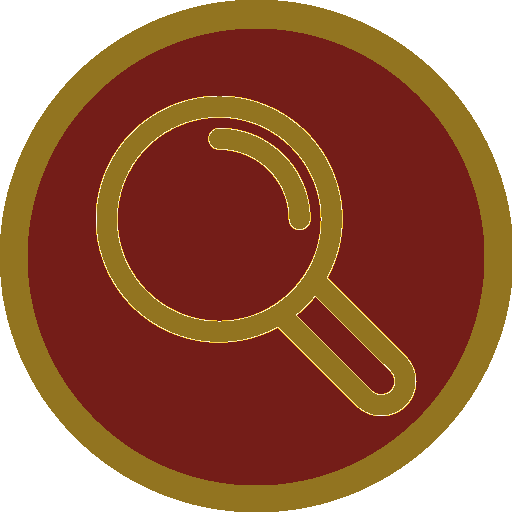
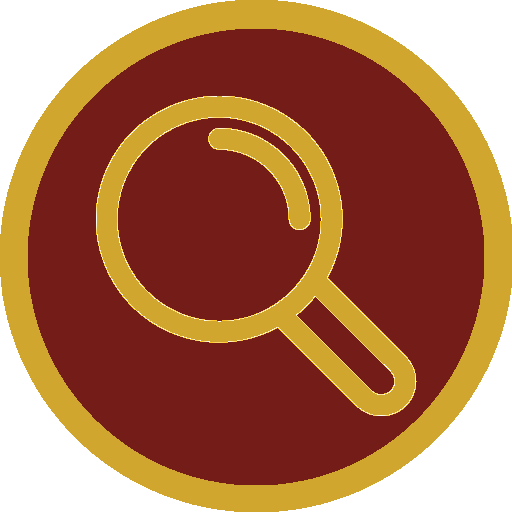
header.php fait

Changed region(s): [[0.0, 0.0, 1.0, 1.0]]

diff --git a/src/ressources/style/style.css b/src/ressources/style/style.css
@@ -70,7 +70,7 @@
 
 .search-button:hover {
     transform: scale(1.05);
-    background-image: url("../img/search_button4.png");
+    background-image: url("../img/search_button2.png");
 }
 
 .search-bar {

diff --git a/src/connexion.php b/src/connexion.php
@@ -1,4 +1,5 @@
 <?php
+include "header.php";
 if ($_SERVER["REQUEST_METHOD"] === "POST") {
     $email = $_POST["email"];
     $mdp = $_POST["mdp"];
@@ -21,55 +22,14 @@ if ($_SERVER["REQUEST_METHOD"] === "POST") {
         $error = "mdp ou email invalide";
     }
 }
-session_start();
 ?>
 
 <!DOCTYPE html>
 <html lang="fr">
 <head>
-    <meta charset="UTF-8">
     <title>Connexion</title>
-    <link href="https://cdn.jsdelivr.net/npm/bootstrap@5.3.8/dist/css/bootstrap.min.css" rel="stylesheet" integrity="sha384-sRIl4kxILFvY47J16cr9ZwB07vP4J8+LH7qKQnuqkuIAvNWLzeN8tE5YBujZqJLB" crossorigin="anonymous" />
-    <link rel="stylesheet" type="text/css" href="ressources/style/style.css">
 </head>
 <body>
-<nav class="navbar navbar-expand-md navbar-light bg-warning-subtle flex-nowrap">
-    <div class="container-fluid d-flex align-items-center">
-        <a class="navbar-brand me-3 pawnstar-font" href="index.php">PawnStar?</a>
-        <div class="collapse navbar-collapse order-2 order-md-1" id="navbarSupportedContent">
-            <ul class="navbar-nav me-auto mb-0 mb-lg-0">
-                <li class="nav-item">
-                    <a class="nav-link active pawnstar-font" aria-current="page" href="index.php">Hub</a>
-                </li>
-                <?php
-                if (isset($_SESSION["id"])) {
-                    echo
-                    '<li class="nav-item">
-                            <a class="nav-link pawnstar-font" href="mon_espace.php">Mon Espace</a>
-                        </li>
-                        <li class="nav-item">
-                            <a class="nav-link pawnstar-font" href="vente.php">Vente</a>
-                        </li>';
-                } else {
-                    echo
-                    '<li class="nav-item">
-                            <a class="nav-link pawnstar-font" href="connexion.php">Connexion</a>
-                        </li>
-                        <li class="nav-item">
-                            <a class="nav-link pawnstar-font" href="inscription.php">Inscription</a>
-                        </li>';
-                }?>
-            </ul>
-        </div>
-        <form class="d-flex order-1 order-md-2" role="search">
-            <input class="form-control me-2 search-bar" type="search" placeholder="Search" aria-label="Search"/>
-            <button class="btn search-button" type="submit"></button>
-        </form>
-        <button class="navbar-toggler order-3 ms-auto navbar-burger" type="button" data-bs-toggle="collapse" data-bs-target="#navbarSupportedContent" aria-controls="navbarSupportedContent" aria-expanded="false" aria-label="Toggle navigation">
-            <span class="navbar-toggler-icon"></span>
-        </button>
-    </div>
-</nav>
 <h1>Connexion</h1>
 <?php if(isset($error)){echo $error;} ?>
 <form action="connexion.php" method="post">

diff --git a/src/inscription.php b/src/inscription.php
@@ -1,4 +1,5 @@
 <?php
+include "header.php";
 if ($_SERVER["REQUEST_METHOD"] === "POST") {
     $nom = $_POST["nom"];
     $prenom = $_POST["prenom"];
@@ -19,55 +20,14 @@ if ($_SERVER["REQUEST_METHOD"] === "POST") {
     header("Location: index.php");
     exit();
 }
-session_start();
 ?>
 
 <!DOCTYPE html>
 <html lang="fr">
 <head>
-    <meta charset="UTF-8">
     <title>Inscription</title>
-    <link href="https://cdn.jsdelivr.net/npm/bootstrap@5.3.8/dist/css/bootstrap.min.css" rel="stylesheet" integrity="sha384-sRIl4kxILFvY47J16cr9ZwB07vP4J8+LH7qKQnuqkuIAvNWLzeN8tE5YBujZqJLB" crossorigin="anonymous" />
-    <link rel="stylesheet" type="text/css" href="ressources/style/style.css">
 </head>
 <body>
-<nav class="navbar navbar-expand-md navbar-light bg-warning-subtle flex-nowrap">
-    <div class="container-fluid d-flex align-items-center">
-        <a class="navbar-brand me-3 pawnstar-font" href="index.php">PawnStar?</a>
-        <div class="collapse navbar-collapse order-2 order-md-1" id="navbarSupportedContent">
-            <ul class="navbar-nav me-auto mb-0 mb-lg-0">
-                <li class="nav-item">
-                    <a class="nav-link active pawnstar-font" aria-current="page" href="index.php">Hub</a>
-                </li>
-                <?php
-                if (isset($_SESSION["id"])) {
-                    echo
-                    '<li class="nav-item">
-                            <a class="nav-link pawnstar-font" href="mon_espace.php">Mon Espace</a>
-                        </li>
-                        <li class="nav-item">
-                            <a class="nav-link pawnstar-font" href="vente.php">Vente</a>
-                        </li>';
-                } else {
-                    echo
-                    '<li class="nav-item">
-                            <a class="nav-link pawnstar-font" href="connexion.php">Connexion</a>
-                        </li>
-                        <li class="nav-item">
-                            <a class="nav-link pawnstar-font" href="inscription.php">Inscription</a>
-                        </li>';
-                }?>
-            </ul>
-        </div>
-        <form class="d-flex order-1 order-md-2" role="search">
-            <input class="form-control me-2 search-bar" type="search" placeholder="Search" aria-label="Search"/>
-            <button class="btn search-button" type="submit"></button>
-        </form>
-        <button class="navbar-toggler order-3 ms-auto navbar-burger" type="button" data-bs-toggle="collapse" data-bs-target="#navbarSupportedContent" aria-controls="navbarSupportedContent" aria-expanded="false" aria-label="Toggle navigation">
-            <span class="navbar-toggler-icon"></span>
-        </button>
-    </div>
-</nav>
     <h1>Inscription</h1>
     <form action="inscription.php" method="post">
 

diff --git a/src/vente.php b/src/vente.php
@@ -1,4 +1,5 @@
 <?php
+include "header.php";
 $conn = new mysqli(
     $_ENV['MYSQL_HOST'],
     $_ENV['MYSQL_USER'],
@@ -13,54 +14,13 @@ if ($conn->connect_error) {
 $stmt = $conn->prepare("SELECT * FROM categorie");
 $stmt->execute();
 $result = $stmt->get_result();
-session_start();
 ?>
 
 <!DOCTYPE html>
 <html lang="fr">
 <head>
-    <meta charset="UTF-8">
     <title>Vente</title>
-    <link href="https://cdn.jsdelivr.net/npm/bootstrap@5.3.8/dist/css/bootstrap.min.css" rel="stylesheet" integrity="sha384-sRIl4kxILFvY47J16cr9ZwB07vP4J8+LH7qKQnuqkuIAvNWLzeN8tE5YBujZqJLB" crossorigin="anonymous" />
-    <link rel="stylesheet" type="text/css" href="ressources/style/style.css">
 <body>
-<nav class="navbar navbar-expand-md navbar-light bg-warning-subtle flex-nowrap">
-    <div class="container-fluid d-flex align-items-center">
-        <a class="navbar-brand me-3 pawnstar-font" href="index.php">PawnStar?</a>
-        <div class="collapse navbar-collapse order-2 order-md-1" id="navbarSupportedContent">
-            <ul class="navbar-nav me-auto mb-0 mb-lg-0">
-                <li class="nav-item">
-                    <a class="nav-link active pawnstar-font" aria-current="page" href="index.php">Hub</a>
-                </li>
-                <?php
-                if (isset($_SESSION["id"])) {
-                    echo
-                    '<li class="nav-item">
-                            <a class="nav-link pawnstar-font" href="mon_espace.php">Mon Espace</a>
-                        </li>
-                        <li class="nav-item">
-                            <a class="nav-link pawnstar-font" href="vente.php">Vente</a>
-                        </li>';
-                } else {
-                    echo
-                    '<li class="nav-item">
-                            <a class="nav-link pawnstar-font" href="connexion.php">Connexion</a>
-                        </li>
-                        <li class="nav-item">
-                            <a class="nav-link pawnstar-font" href="inscription.php">Inscription</a>
-                        </li>';
-                }?>
-            </ul>
-        </div>
-        <form class="d-flex order-1 order-md-2" role="search">
-            <input class="form-control me-2 search-bar" type="search" placeholder="Search" aria-label="Search"/>
-            <button class="btn search-button" type="submit"></button>
-        </form>
-        <button class="navbar-toggler order-3 ms-auto navbar-burger" type="button" data-bs-toggle="collapse" data-bs-target="#navbarSupportedContent" aria-controls="navbarSupportedContent" aria-expanded="false" aria-label="Toggle navigation">
-            <span class="navbar-toggler-icon"></span>
-        </button>
-    </div>
-</nav>
 <h1>Mise aux enchères</h1>
 <form action="inscription.php" method="post">
 

diff --git a/src/mon_espace.php b/src/mon_espace.php
@@ -1,4 +1,5 @@
 <?php
+include "header.php";
 $conn = new mysqli(
     $_ENV['MYSQL_HOST'],
     $_ENV['MYSQL_USER'],
@@ -9,55 +10,14 @@ $conn = new mysqli(
 if ($conn->connect_error) {
     die("Connection failed: " . $conn->connect_error);
 }
-session_start();
 ?>
 
 <!DOCTYPE html>
 <html lang="fr">
 <head>
-    <meta charset="UTF-8">
     <title>Mon Espace</title>
-    <link href="https://cdn.jsdelivr.net/npm/bootstrap@5.3.8/dist/css/bootstrap.min.css" rel="stylesheet" integrity="sha384-sRIl4kxILFvY47J16cr9ZwB07vP4J8+LH7qKQnuqkuIAvNWLzeN8tE5YBujZqJLB" crossorigin="anonymous" />
-    <link rel="stylesheet" type="text/css" href="ressources/style/style.css">
 </head>
 <body>
-<nav class="navbar navbar-expand-md navbar-light bg-warning-subtle flex-nowrap">
-    <div class="container-fluid d-flex align-items-center">
-        <a class="navbar-brand me-3 pawnstar-font" href="index.php">PawnStar?</a>
-        <div class="collapse navbar-collapse order-2 order-md-1" id="navbarSupportedContent">
-            <ul class="navbar-nav me-auto mb-0 mb-lg-0">
-                <li class="nav-item">
-                    <a class="nav-link active pawnstar-font" aria-current="page" href="index.php">Hub</a>
-                </li>
-                <?php
-                if (isset($_SESSION["id"])) {
-                    echo
-                    '<li class="nav-item">
-                            <a class="nav-link pawnstar-font" href="mon_espace.php">Mon Espace</a>
-                        </li>
-                        <li class="nav-item">
-                            <a class="nav-link pawnstar-font" href="vente.php">Vente</a>
-                        </li>';
-                } else {
-                    echo
-                    '<li class="nav-item">
-                            <a class="nav-link pawnstar-font" href="connexion.php">Connexion</a>
-                        </li>
-                        <li class="nav-item">
-                            <a class="nav-link pawnstar-font" href="inscription.php">Inscription</a>
-                        </li>';
-                }?>
-            </ul>
-        </div>
-        <form class="d-flex order-1 order-md-2" role="search">
-            <input class="form-control me-2 search-bar" type="search" placeholder="Search" aria-label="Search"/>
-            <button class="btn search-button" type="submit"></button>
-        </form>
-        <button class="navbar-toggler order-3 ms-auto navbar-burger" type="button" data-bs-toggle="collapse" data-bs-target="#navbarSupportedContent" aria-controls="navbarSupportedContent" aria-expanded="false" aria-label="Toggle navigation">
-            <span class="navbar-toggler-icon"></span>
-        </button>
-    </div>
-</nav>
 <h1>Mon Espace</h1>
 <h2>Statistiques:</h2>
 <div class="redirection-vente">

diff --git a/src/index.php b/src/index.php
@@ -1,4 +1,5 @@
 <?php
+include "header.php";
 $conn = new mysqli(
     $_ENV['MYSQL_HOST'],
     $_ENV['MYSQL_USER'],
@@ -9,57 +10,14 @@ $conn = new mysqli(
 if ($conn->connect_error) {
     die("Connection failed: " . $conn->connect_error);
 }
-session_start();
 ?>
 
 <!DOCTYPE html>
 <html lang="fr">
 <head>
-    <meta charset="UTF-8">
     <title>Hub</title>
-    <link href="https://cdn.jsdelivr.net/npm/bootstrap@5.3.8/dist/css/bootstrap.min.css" rel="stylesheet" integrity="sha384-sRIl4kxILFvY47J16cr9ZwB07vP4J8+LH7qKQnuqkuIAvNWLzeN8tE5YBujZqJLB" crossorigin="anonymous" />
-    <link rel="stylesheet" type="text/css" href="ressources/style/style.css">
 </head>
 <body>
-<nav class="navbar navbar-expand-md navbar-light bg-warning-subtle flex-nowrap">
-    <div class="container-fluid d-flex align-items-center">
-        <a class="navbar-brand me-3 pawnstar-font" href="index.php">PawnStar?</a>
-        <div class="collapse navbar-collapse order-2 order-md-1" id="navbarSupportedContent">
-            <ul class="navbar-nav me-auto mb-0 mb-lg-0">
-                <li class="nav-item">
-                    <a class="nav-link active pawnstar-font" aria-current="page" href="index.php">Hub</a>
-                </li>
-                <?php
-                if (isset($_SESSION["id"])) {
-                    echo
-                        '<li class="nav-item">
-                            <a class="nav-link pawnstar-font" href="mon_espace.php">Mon Espace</a>
-                        </li>
-                        <li class="nav-item">
-                            <a class="nav-link pawnstar-font" href="vente.php">Vente</a>
-                        </li>';
-                } else {
-                    echo
-                        '<li class="nav-item">
-                            <a class="nav-link pawnstar-font" href="connexion.php">Connexion</a>
-                        </li>
-                        <li class="nav-item">
-                            <a class="nav-link pawnstar-font" href="inscription.php">Inscription</a>
-                        </li>';
-                }?>
-            </ul>
-        </div>
-        <form class="d-flex order-1 order-md-2" role="search">
-            <input class="form-control me-2 search-bar" type="search" placeholder="Search" aria-label="Search"/>
-            <button class="btn search-button" type="submit"></button>
-        </form>
-        <button class="navbar-toggler order-3 ms-auto navbar-burger" type="button" data-bs-toggle="collapse" data-bs-target="#navbarSupportedContent" aria-controls="navbarSupportedContent" aria-expanded="false" aria-label="Toggle navigation">
-            <span class="navbar-toggler-icon"></span>
-        </button>
-    </div>
-</nav>
+
 </body>
 </html>
-
-
-

diff --git a/src/header.php b/src/header.php
@@ -1,0 +1,52 @@
+<?php
+session_start();
+?>
+
+<!DOCTYPE html>
+<html lang="fr">
+<head>
+    <meta charset="UTF-8">
+    <link href="https://cdn.jsdelivr.net/npm/bootstrap@5.3.8/dist/css/bootstrap.min.css" rel="stylesheet" integrity="sha384-sRIl4kxILFvY47J16cr9ZwB07vP4J8+LH7qKQnuqkuIAvNWLzeN8tE5YBujZqJLB" crossorigin="anonymous" />
+    <script src="https://cdn.jsdelivr.net/npm/bootstrap@5.3.8/dist/js/bootstrap.bundle.min.js" integrity="..." crossorigin="anonymous"></script>
+    <link rel="stylesheet" type="text/css" href="ressources/style/style.css">
+</head>
+<body>
+<nav class="navbar navbar-expand-md navbar-light bg-warning-subtle flex-nowrap">
+    <div class="container-fluid d-flex align-items-center">
+        <a class="navbar-brand me-3 pawnstar-font" href="index.php">PawnStar?</a>
+        <div class="collapse navbar-collapse order-2 order-md-1" id="navbarSupportedContent">
+            <ul class="navbar-nav me-auto mb-0 mb-lg-0">
+                <li class="nav-item">
+                    <a class="nav-link active pawnstar-font" aria-current="page" href="index.php">Hub</a>
+                </li>
+                <?php
+                if (isset($_SESSION["id"])) {
+                    echo
+                    '<li class="nav-item">
+                            <a class="nav-link pawnstar-font" href="mon_espace.php">Mon Espace</a>
+                        </li>
+                        <li class="nav-item">
+                            <a class="nav-link pawnstar-font" href="vente.php">Vente</a>
+                        </li>';
+                } else {
+                    echo
+                    '<li class="nav-item">
+                            <a class="nav-link pawnstar-font" href="connexion.php">Connexion</a>
+                        </li>
+                        <li class="nav-item">
+                            <a class="nav-link pawnstar-font" href="inscription.php">Inscription</a>
+                        </li>';
+                }?>
+            </ul>
+        </div>
+        <form class="d-flex order-1 order-md-2" role="search">
+            <input class="form-control me-2 search-bar" type="search" placeholder="Search" aria-label="Search"/>
+            <button class="btn search-button" type="submit"></button>
+        </form>
+        <button class="navbar-toggler order-3 ms-auto navbar-burger" type="button" data-bs-toggle="collapse" data-bs-target="#navbarSupportedContent" aria-controls="navbarSupportedContent" aria-expanded="false" aria-label="Toggle navigation">
+            <span class="navbar-toggler-icon"></span>
+        </button>
+    </div>
+</nav>
+</body>
+</html>
